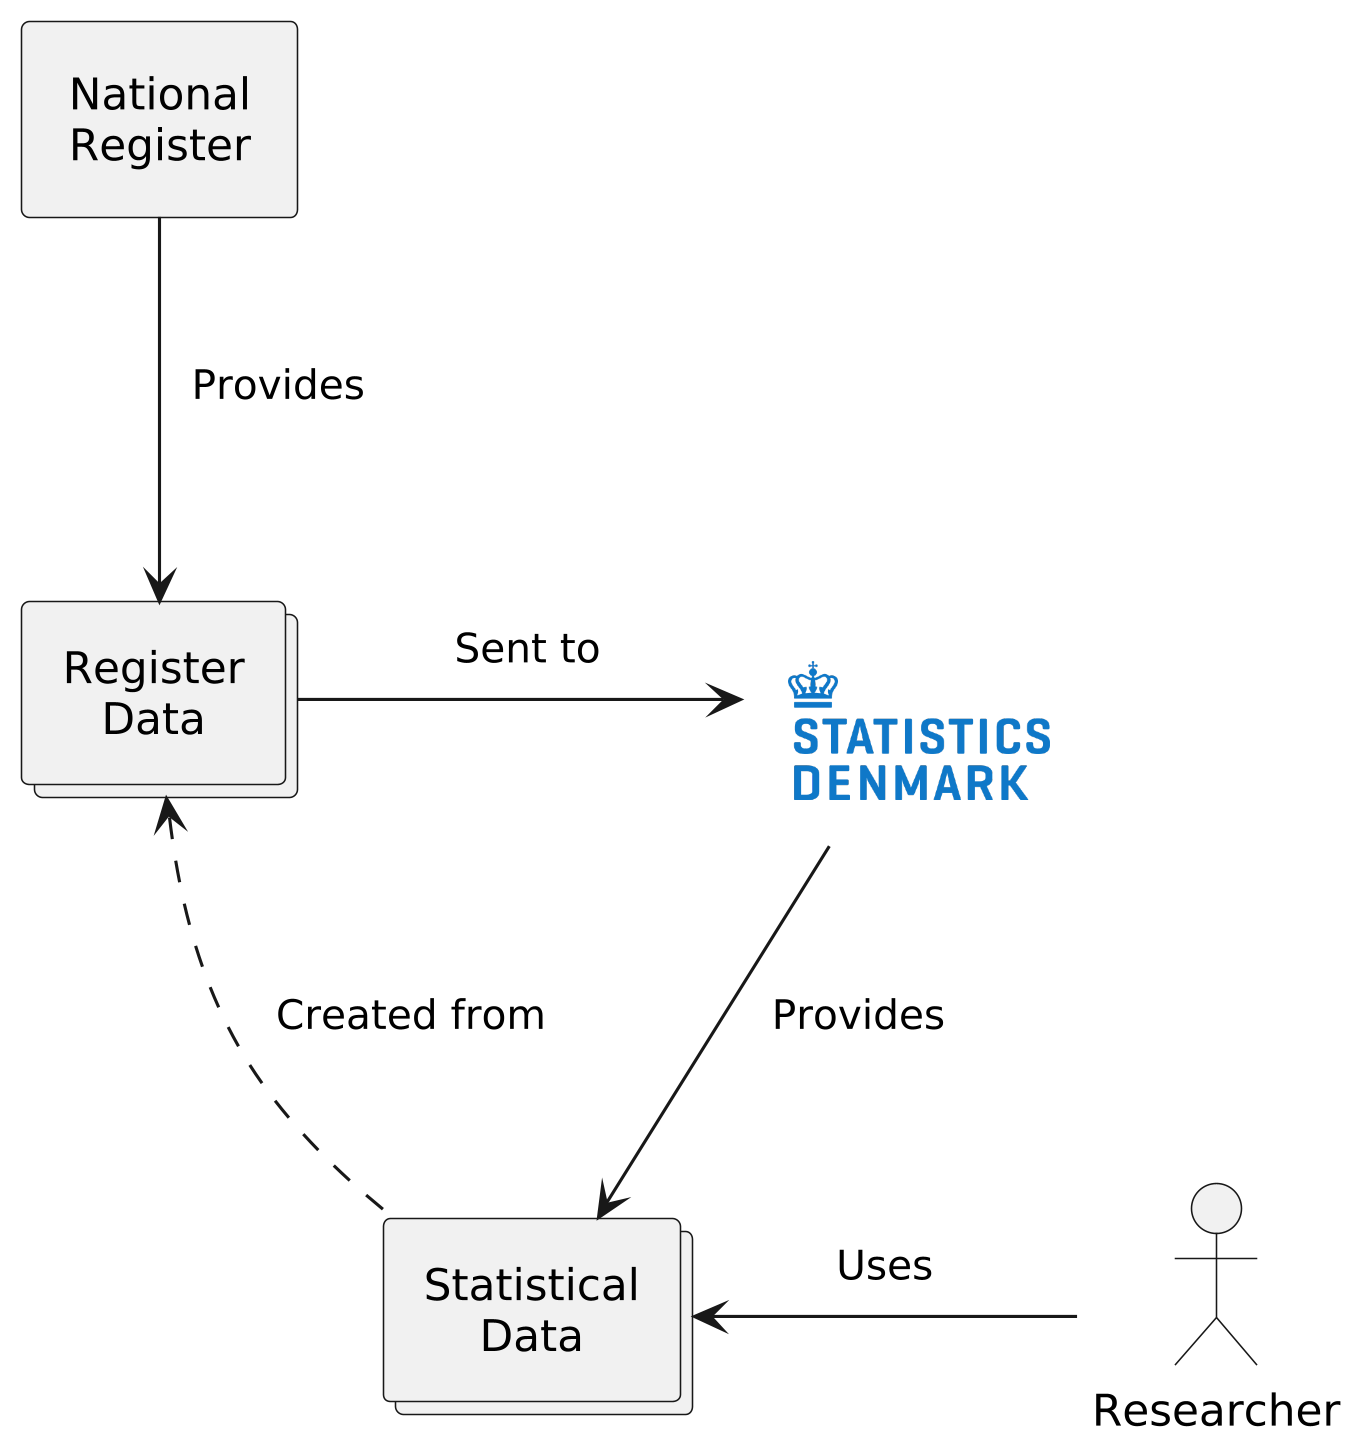
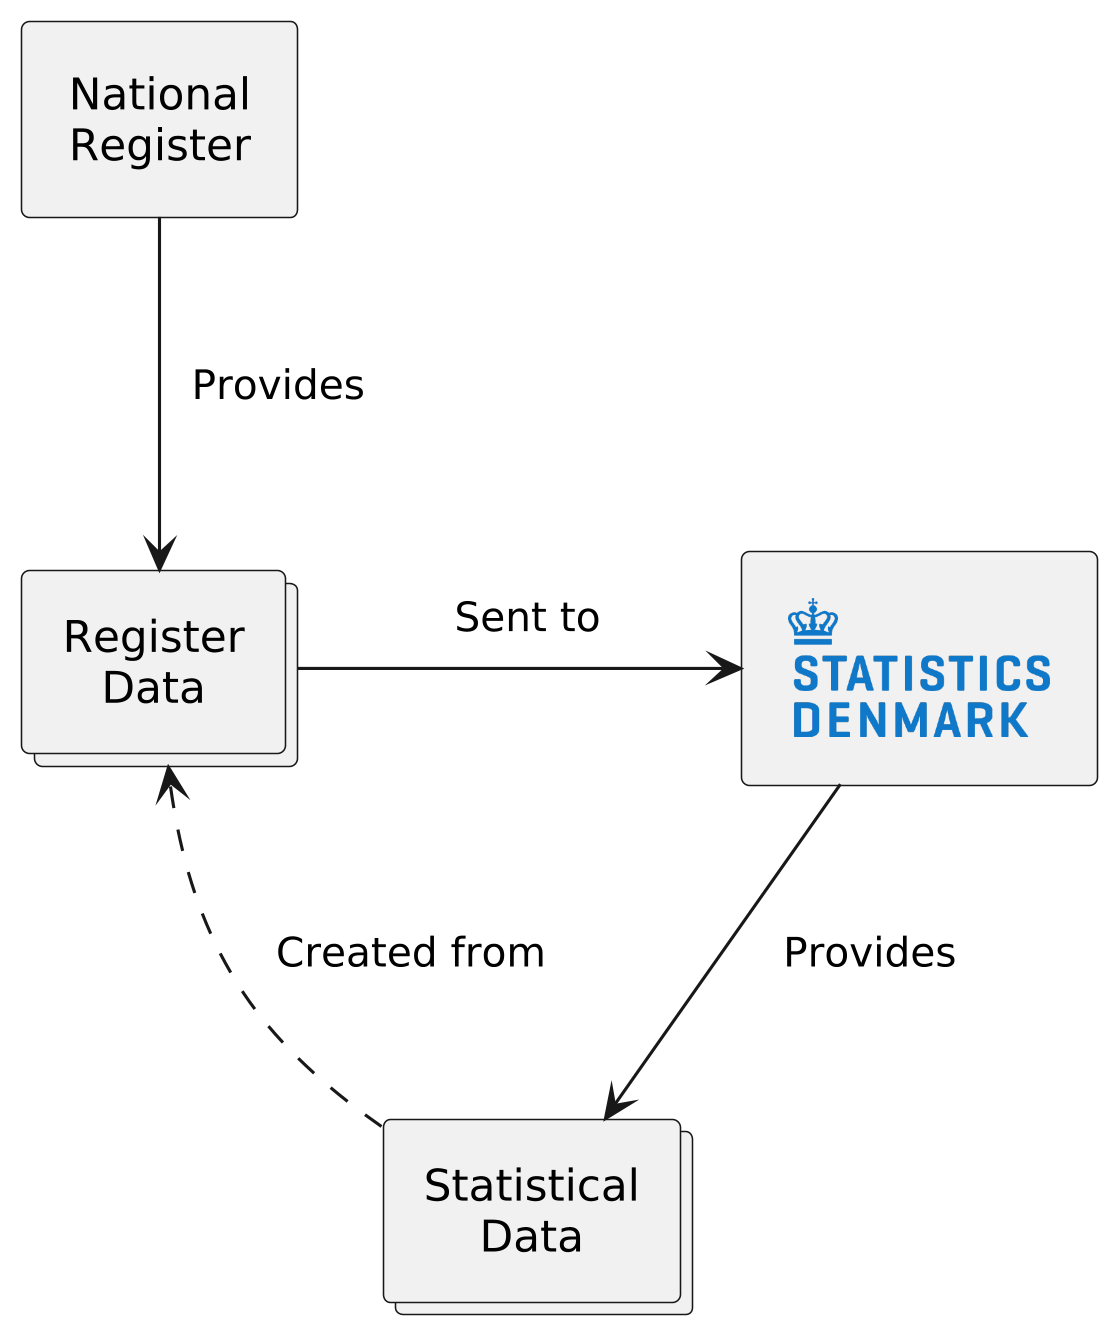
Adds more details about the pipeline

diff --git a/README.md b/README.md
@@ -25,14 +25,31 @@ from the register data it received from the national registers.
 
 ![Domain model 1](./docs/images/domain-model1.png)
 
-The statistical data that `dst` provides are made up of around [**400** distinct datasets](https://danmarksdatavindue.dk/DDVDatasafari/#/registers).
+The statistical data that `dst` provides are made up of around
+[**400** distinct datasets](https://danmarksdatavindue.dk/DDVDatasafari/#/registers).
 Each dataset has a unique name and is provided as a set of "dataset files" in the proprietary
 format `.sas7bdat`. Each dataset file represents a single year and holds the data produced in that year
 (expect for small datasets, they only have one file with all data).
 
-Here's where the pipeline `dst-data-cleaner` comes in the picture.
+Here's where the pipeline `dst-data-cleaner` comes into the picture. It processes the data in 2 stages:
+
+- **Stage 1**:
+    - Convert `.sas7bdat` files into `.csv` files
+    - Exclude irrelevant columns
+- **Stage 2**:
+    - Create new opinionated datasets by manipulating and combining related datasets
 
 ![Domain model 2](./docs/images/domain-model2.png)
+
+**Stage1** of the pipeline is only about picking out what data to clean and changing the storage
+format of the data. The actual data is not manipulated in any way.
+
+**Stage2** of the pipeline is where decisions are taken that can affect research results. The data is
+manipulated and related datasets are merged together to form new datasets.
+
+By keeping the files produced in both stages, researchers can either use the opinionated datasets
+that are easier to work with, or they are doing their own custom cleaning, they can use the unchanged
+datasets.
 
 ## Project overview 👀
 
